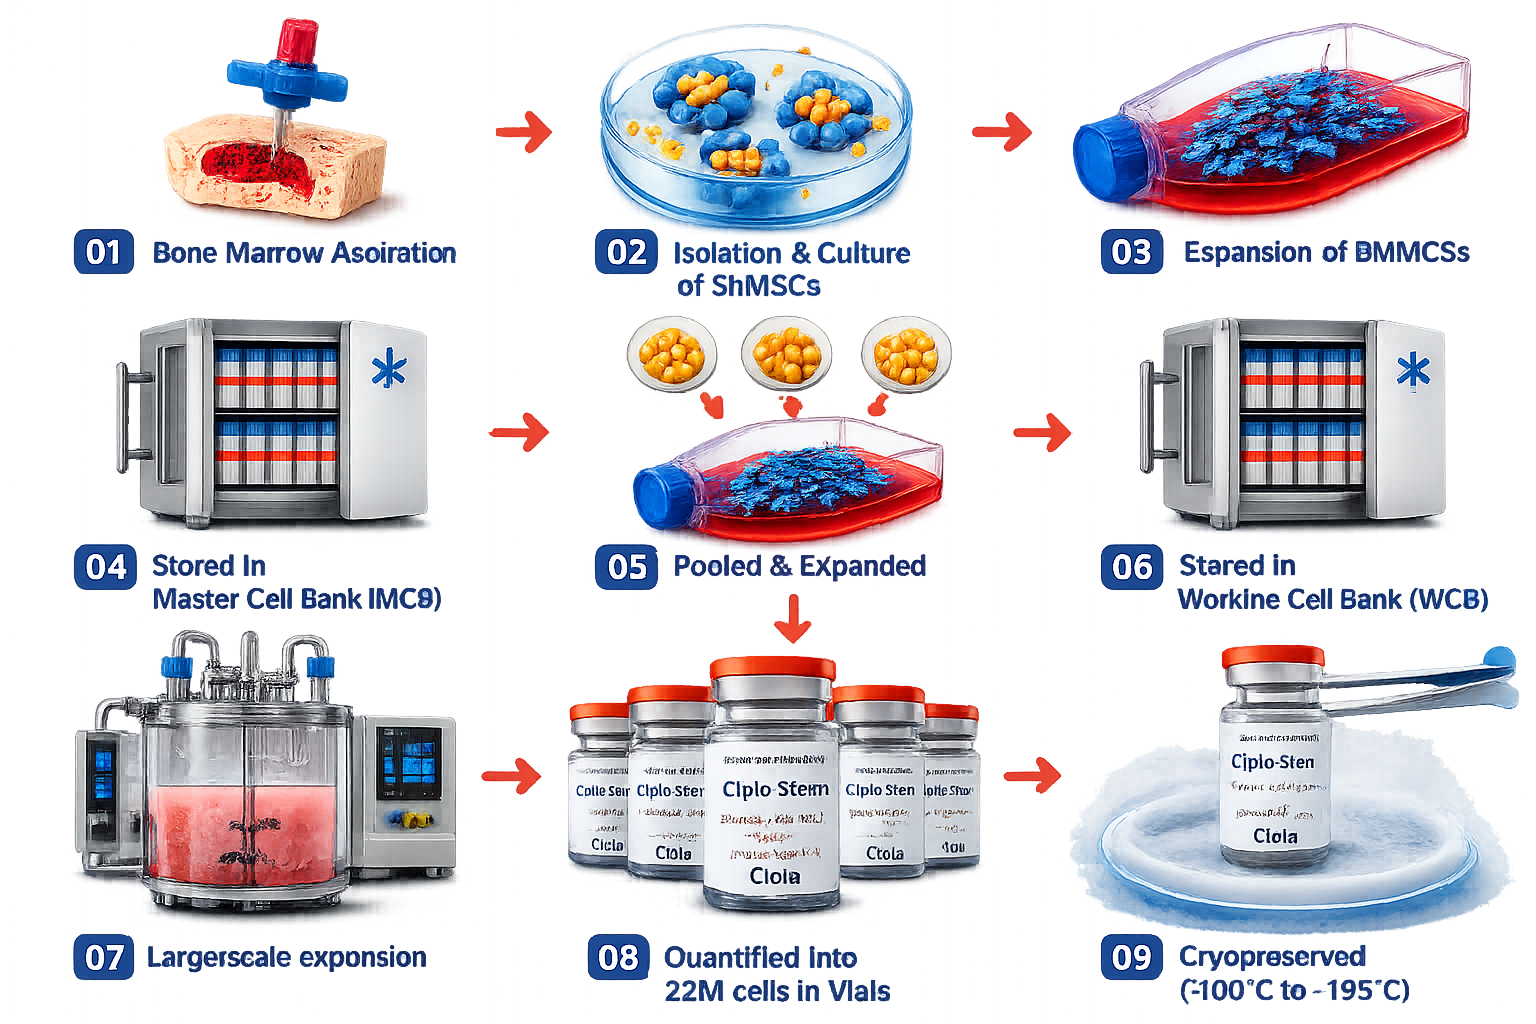
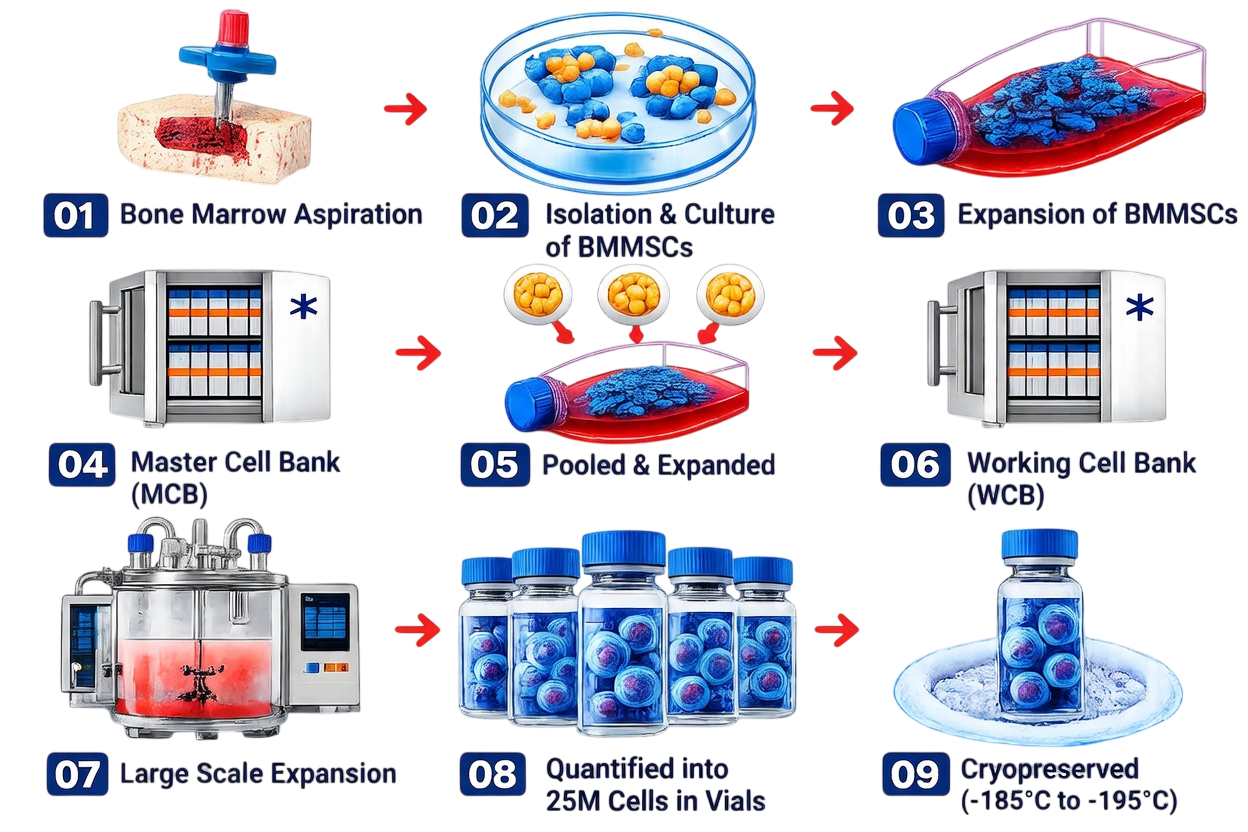
Updated code changes

diff --git a/src/components/DoctorReferencesSection.tsx b/src/components/DoctorReferencesSection.tsx
@@ -1,0 +1,46 @@
+const doctorReferences = [
+  "J Arthrosc Surg Sports Med. 2024;5:119-124. Role of Orthobiologics in Preventing OA Progression.",
+  "Clin J Sport Med. 2021;31(6):530-541. Orthobiologics and Regenerative Medicine.",
+  "Orthop Rev (Pavia). 2022 Aug 25;14(3):37498. Stem Cell Fundamentals.",
+  "Bioengineering (Basel). 2025 Feb;12(2):161. Recent Clinical Advances in Bone Marrow Cellular Therapies.",
+  "J Clin Orthop Trauma. 2022 Feb 9;26:101804.",
+  "Transplantation. 2015;99:1681-1690.",
+  "Am J Orthop (Belle Mead NJ). 2016;45(5):280-326. Mesenchymal Stem Cells.",
+  "Appl Sci. 2023;13:10617. MSC Differentiation Potential.",
+  "Stem Cell Res Ther. 2022;13:70. Sources of Mesenchymal Stem Cells.",
+  "J Pain Res. 2018 Oct 5;11:2189-2196. Knee OA Pathophysiology.",
+  "Front Immunol. 2024 Jun 4;15:1385006. Inflammatory Processes in Knee Osteoarthritis.",
+  "Gupta PK et al. Arthritis Research & Therapy. 2016;18:301.",
+  "Gupta PK et al. Am J Sports Med. 2023;51(9):2254-2266. Clinical Evaluation of Allogenic Bone Marrow Derived Mesenchymal Stem Cells in Knee Osteoarthritis.",
+  "Cell Biosci. 2021;11:187. Allogeneic vs Autologous Mesenchymal Stem/Stromal Cells in Clinical Practice.",
+  "World J Orthop. 2024;15(10):908-917. Level of Evidence for Orthobiologics in Knee Osteoarthritis.",
+  "Stempeutics Research Pvt. Ltd. Data on File.",
+];
+
+export default function DoctorReferencesSection() {
+  return (
+    <section className="bg-[#e0f2fe] border-t border-sky-200 py-10 sm:py-14">
+      <div className="mx-auto max-w-7xl px-4 sm:px-6 lg:px-8">
+        {/* Heading */}
+        <h2 className="text-2xl font-bold text-[#0b3a66] sm:text-3xl">
+          References
+        </h2>
+        <div className="mt-3 h-px w-full bg-slate-300" />
+
+        {/* Numbered list */}
+        <ol className="mt-6 space-y-3 list-none">
+          {doctorReferences.map((ref, idx) => (
+            <li key={idx} className="flex items-start gap-3">
+              <span className="mt-0.5 flex-none text-sm font-semibold text-[#0b3a66] leading-relaxed min-w-[1.5rem]">
+                {idx + 1}.
+              </span>
+              <span className="text-sm leading-relaxed text-slate-700 sm:text-[15px]">
+                {ref}
+              </span>
+            </li>
+          ))}
+        </ol>
+      </div>
+    </section>
+  );
+}

diff --git a/src/components/RoadmapSection.tsx b/src/components/RoadmapSection.tsx
@@ -31,7 +31,7 @@ const milestones = [
 
 export const RoadmapSection: React.FC = () => {
   return (
-    <section className="relative w-full pt-16 sm:pt-20 md:pt-24 pb-6 px-3 sm:px-4 overflow-x-hidden bg-[#F4F7FB]">
+    <section className="relative w-full pt-16 sm:pt-20 md:pt-24 pb-6 px-3 sm:px-4 overflow-x-hidden bg-[#e0f2fe]">
       {/* Global Animations */}
       <style>{`
         @keyframes float { 
@@ -206,7 +206,7 @@ export const RoadmapSection: React.FC = () => {
                         top: `${position.roadDotTop + 112}px`,
                       }}
                     >
-                      <div className="relative w-60 bg-white rounded-[20px] p-5 shadow-xl border-b-[6px] border-[#1E5EFF]">
+                      <div className="relative w-60 bg-white rounded-[20px] p-5 shadow-xl border-b-[6px] border-[#1E5EFF] transition-all duration-300 cursor-pointer hover:scale-105 hover:shadow-2xl hover:border-[#14B8C4] hover:bg-blue-50">
                         {/* Triangle */}
                         <div className="absolute -top-4 left-1/2 -translate-x-1/2 w-0 h-0
                           border-l-[14px]

diff --git a/src/pages/Patient.tsx b/src/pages/Patient.tsx
@@ -442,9 +442,7 @@ export default function Patient() {
           <Container>
             <div className="mx-auto max-w-6xl">
               <div className="max-w-xl">
-                <div className={cn("text-sm font-semibold text-[#0b3a66] reveal-fade", symptomsInView && "reveal-fade-visible")}>
-                  Knee OA: Symptoms
-                </div>
+                <h1 className={cn("text-5xl font-extrabold text-[#0b3a66] reveal-fade", symptomsInView && "reveal-fade-visible")}>Knee OA: Symptoms</h1>
                 <div className="mt-3 font-display text-3xl font-semibold tracking-[-0.03em] text-[#0b3a66] sm:text-4xl">
                   <RevealWords text="Signs Your Knee May Be Telling You" active={symptomsInView} />
                 </div>

diff --git a/src/components/ReferencesSection.tsx b/src/components/ReferencesSection.tsx
@@ -8,13 +8,12 @@ const references = [
   "Appl Sci. 2023;13:10617. MSC Differentiation Potential.",
   "J Arthrosc Surg Sports Med. 2024;5:119-124. Orthobiologics in Knee OA.",
   "Gupta PK et al. Am J Sports Med. 2023;51(9):2254-2266. Clinical Evaluation of Allogenic BMMSCs in Knee OA.",
-  "CiploStem Prescribing Information.",
   "Stempeutics Research Pvt. Ltd. Data on File.",
 ];
 
 export default function ReferencesSection() {
   return (
-    <section className="bg-[#f5f5f5] border-t border-slate-200 py-10 sm:py-14">
+    <section className="bg-[#e0f2fe] border-t border-sky-200 py-10 sm:py-14">
       <div className="mx-auto max-w-7xl px-4 sm:px-6 lg:px-8">
         {/* Heading */}
         <h2 className="text-2xl font-bold text-[#0b3a66] sm:text-3xl">

diff --git a/src/pages/About.tsx b/src/pages/About.tsx
@@ -264,7 +264,7 @@ export default function About() {
           `}</style>
         </section>
 
-        <section className="bg-sky-100 py-20 sm:py-32">
+        <section className="bg-sky-100 pt-10 pb-0 sm:pt-16 sm:pb-0">
           <RoadmapSection />
         </section>
       </main>

diff --git a/src/pages/Doctor.tsx b/src/pages/Doctor.tsx
@@ -1,5 +1,6 @@
 import MarketingNavbar from "@/components/layout/MarketingNavbar";
 import Footer from "@/components/layout/Footer";
+import DoctorReferencesSection from "@/components/DoctorReferencesSection";
 import Container from "@/components/ui/Container";
 import Button from "@/components/ui/Button";
 import stemcellImage from "@/assets/stemcell.png";
@@ -970,6 +971,7 @@ export default function Doctor() {
           </Container>
         </section>
       </main>
+      <DoctorReferencesSection />
       <Footer />
 
       {/* Modal */}